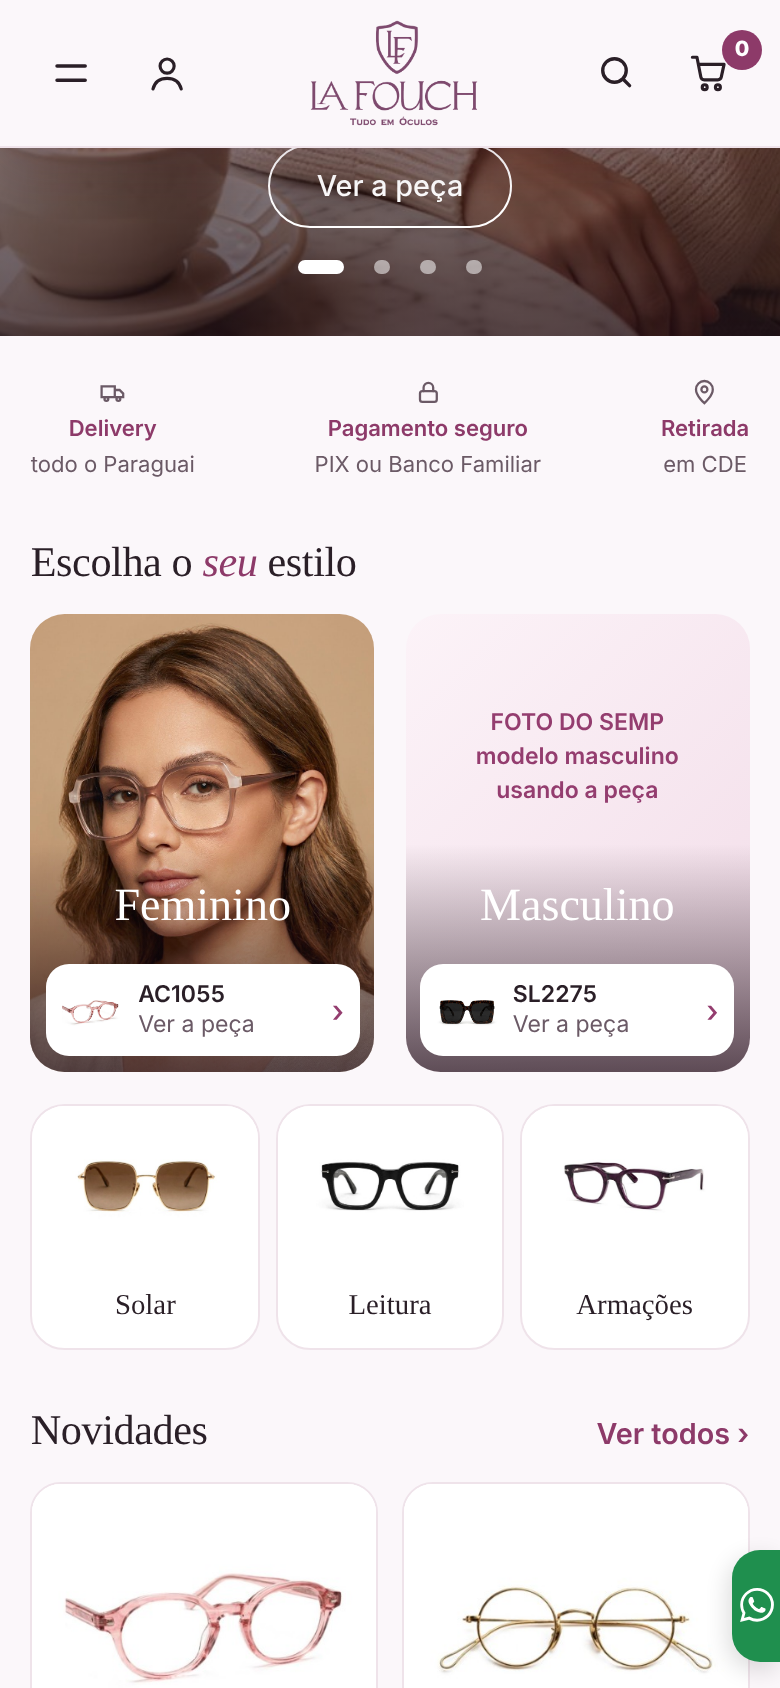
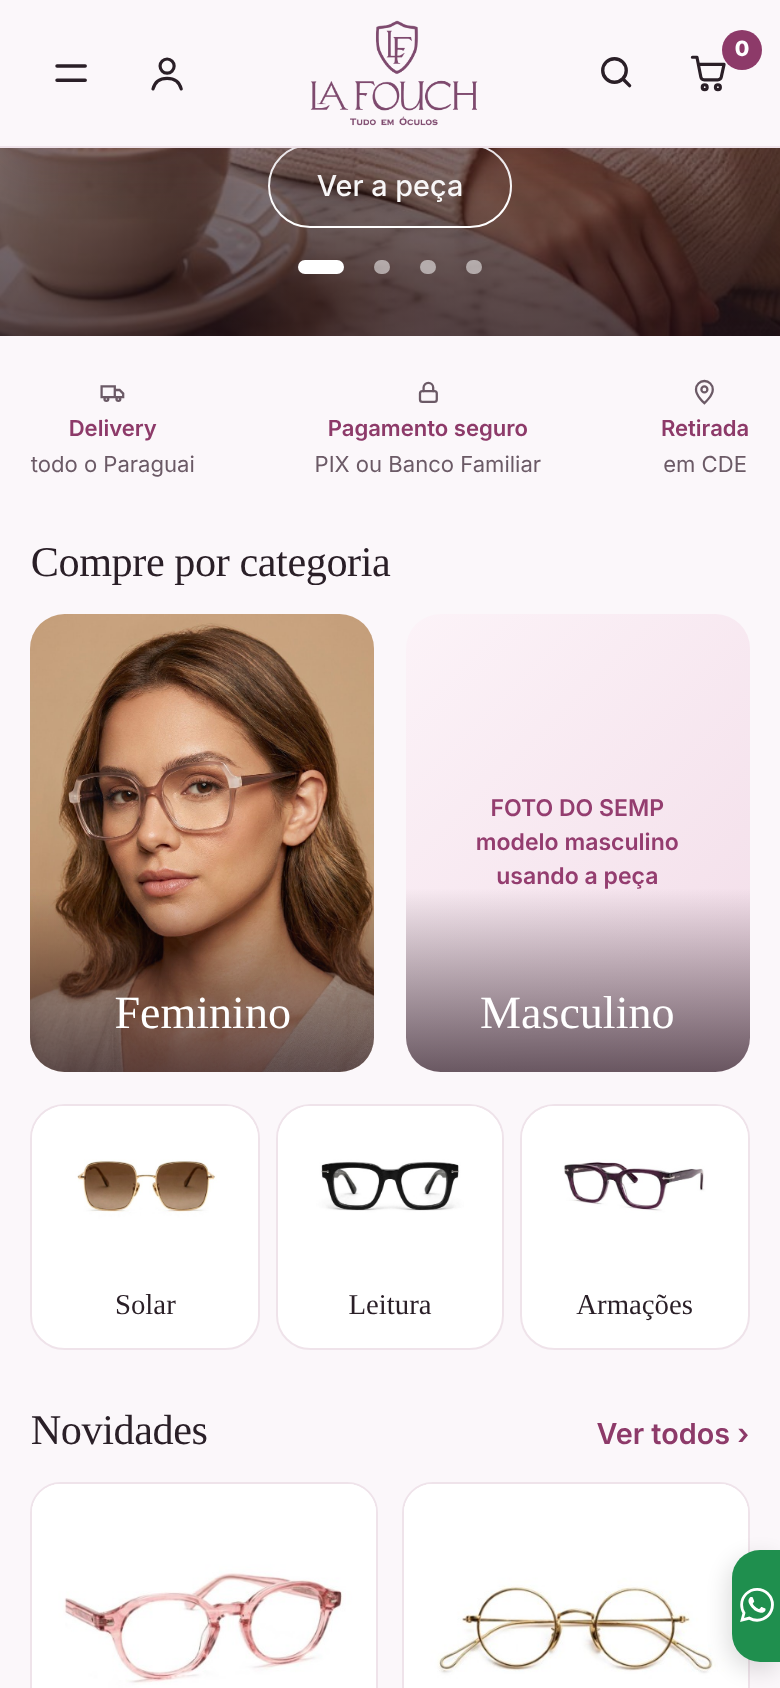
IDEIAS 17: 2d recusada (etiqueta invadindo a foto) → obsoletos; volta a 2c; lição no ESTUDO §10
Claude-Session: https://claude.ai/code/session_01PcXkKhex4mkp1bqD2Nmug8

Changed region(s): [[0.5231, 0.4005, 0.9846, 0.6469], [0.0615, 0.5237, 0.4615, 0.6469], [0.0308, 0.3081, 0.4923, 0.3389]]

diff --git a/work/ideias/17-inicio-modelos/parte2.js b/work/ideias/17-inicio-modelos/parte2.js
@@ -37,34 +37,22 @@
   }
 
 
-  /* 2d (dono 26/11 15:00 "refaça a parte 2", aplicando o ESTUDO.md §9):
-     - título humano em Fraunces com a palavra em itálico colorida (como os títulos do site);
-     - Feminino | Masculino = campanha (item 7 da Made), e cada foto leva TAMBÉM à peça que a modelo usa (itens 9/10):
-       etiqueta branca dentro da foto (miniatura + código + preço) que abre a peça; o resto da foto abre a categoria;
-     - Solar · Leitura · Armações = vitrine (os cartões de hoje): alterna campanha ↔ peça. */
+  /* 2c (dono 26/11 14:51, ESTUDO.md §7–8): alterna tipo e tamanho de imagem.
+     1) Feminino | Masculino = CAMPANHA: a foto ocupa o cartão inteiro (3:4, mesmo arredondado do .hcat), sem caixa, sem faixa, sem contagem;
+        nome em Fraunces branco sobre o mesmo véu da capa.
+     2) Solar · Leitura · Armações = VITRINE: os cartões de hoje, com a peça limpa (fotos que já existem). */
   const st = document.createElement('style'); st.textContent = `
   #home .lfx-gen{display:grid;grid-template-columns:repeat(2,minmax(0,1fr));gap:16px;margin-bottom:16px}
-  #home .lfx-gen > div{position:relative;aspect-ratio:3/4;border-radius:18px;overflow:hidden}
-  #home .lfx-gen a.cat{position:absolute;inset:0;color:#fff;text-decoration:none}
-  #home .lfx-gen img.bg{position:absolute;inset:0;width:100%;height:100%;object-fit:cover;object-position:50% 20%}
-  #home .lfx-gen .vb{position:absolute;left:0;right:0;bottom:0;height:50%;background:linear-gradient(#1f0d1700,#1f0d17b3)}
-  #home .lfx-gen b{position:absolute;left:8px;right:8px;bottom:72px;text-align:center;font:500 24px/1.2 Fraunces,Georgia,serif}
-  #home .lfx-gen .tag{position:absolute;left:8px;right:8px;bottom:8px;height:48px;display:flex;align-items:center;gap:8px;padding:0 8px;background:#fff;border-radius:12px;cursor:pointer}
-  #home .lfx-gen .tag img{width:32px;height:32px;object-fit:contain;flex:none}
-  #home .lfx-gen .tag span{flex:1;min-width:0;font:12px/1.3 Inter,system-ui;color:#6b5a66}
-  #home .lfx-gen .tag strong{display:block;font:600 12px/1.3 Inter,system-ui;color:#2a1f27}
-  #home .lfx-gen .tag i{font-style:normal;color:#943d6f;font:500 16px Inter,system-ui}
-  #home .lfx-gen .lfx-semp{position:absolute;inset:0;display:flex;align-items:flex-start;justify-content:center;padding-top:48px;text-align:center;background:linear-gradient(135deg,#fcf3f8,#f2dce8);color:#943d6f;font:600 12px/1.5 Inter,system-ui}`;
+  #home .lfx-gen a{position:relative;display:block;aspect-ratio:3/4;border-radius:18px;overflow:hidden;text-decoration:none;color:#fff}
+  #home .lfx-gen img{position:absolute;inset:0;width:100%;height:100%;object-fit:cover;object-position:50% 20%}
+  #home .lfx-gen .vb{position:absolute;left:0;right:0;bottom:0;height:40%;background:linear-gradient(#1f0d1700,#1f0d17a6)}
+  #home .lfx-gen b{position:absolute;left:16px;right:16px;bottom:16px;text-align:center;font:500 24px/1.2 Fraunces,Georgia,serif}
+  #home .lfx-gen .lfx-semp{position:absolute;inset:0;display:flex;align-items:center;justify-content:center;text-align:center;background:linear-gradient(135deg,#fcf3f8,#f2dce8);color:#943d6f;font:600 12px/1.5 Inter,system-ui;padding:16px}`;
   document.head.appendChild(st);
-  const g2 = document.querySelector('#home .hcat'), h2 = g2.previousElementSibling && g2.previousElementSibling.querySelector('h2');
-  if (h2) h2.innerHTML = 'Escolha o <em>seu</em> estilo';
-  const preco = c => { const el = [...document.querySelectorAll('#home *')].find(e => e.children.length === 0 && e.textContent.trim() === c);
-    const card = el && el.closest('a,article,.card,[data-open]'); const m = card && card.innerText.match(/R\$\s?[\d.,]+/); return m ? m[0] : ''; };
-  const foto = c => (window.C || []).length ? '' : '';
-  const tag = (c, src) => `<div class=tag data-open="${c}"><img src="${src}" alt=""><span><strong>${c}</strong>${preco(c) || 'Ver a peça'}</span><i>›</i></div>`;
+  const g2 = document.querySelector('#home .hcat');
   const gen = document.createElement('div'); gen.className = 'lfx-gen';
-  gen.innerHTML = `<div><a class=cat href="#vitrine" data-mf="gen:f"><img class=bg src="${ESTU}" alt=""><div class=vb></div><b>Feminino</b></a>${tag('AC1055', '/media/i/1e59e39c9c89.jpg')}</div>`
-    + `<div><a class=cat href="#vitrine" data-mf="gen:m"><div class=lfx-semp>FOTO DO SEMP<br>modelo masculino<br>usando a peça</div><div class=vb></div><b>Masculino</b></a>${tag('SL2275', '/media/i/484683019e1e.jpg')}</div>`;
+  gen.innerHTML = `<a href="#vitrine" data-mf="gen:f"><img src="${ESTU}" alt=""><div class=vb></div><b>Feminino</b></a>`
+    + `<a href="#vitrine" data-mf="gen:m"><div class=lfx-semp>FOTO DO SEMP<br>modelo masculino<br>usando a peça</div><div class=vb></div><b>Masculino</b></a>`;
   g2.before(gen);
 
 return 'ok'})()

diff --git a/work/obsoletos/ideias-17-parte2d-etiqueta/parte2d.py b/work/obsoletos/ideias-17-parte2d-etiqueta/parte2d.py
@@ -1,0 +1,91 @@
+"""IDEIAS 17 · parte 2 de 5 (dono 26/11 13:50): selos + "Compre por categoria".
+Base: a tela REAL pelo kit (work/kit/kit.py, regra 11) + parte 1 aprovada como direção (capa de tela inteira).
+Parte 2: os selos ficam como estão (já são da família); os cartões de categoria ficam o MESMO componente (cartão branco,
+mesmo arredondado, borda, rótulo e "N modelos" de hoje) — só a imagem muda: em vez da peça solta, a modelo usando a
+peça, mais alta (3:4), ocupando o cartão. Solar: lugar marcado para a foto do Semp (não há foto de modelo de sol ainda).
+Medidas: nada novo — margens, espaço entre cartões e letras são as do site; só a proporção da imagem muda.
+Gera parte2.js e roda o kit (Hoje e Proposta, com o olho.js/ecom.js), depois a prancha do kit."""
+import os, subprocess, sys
+AQ = os.path.dirname(os.path.abspath(__file__)); R = os.path.abspath(os.path.join(AQ, '../../..')); sys.path.insert(0, AQ)
+from fotos import CAFE, ESTU
+CAPA = r"""
+  const d = document.getElementById('hdst'); const cod = d.querySelector('[data-open]').dataset.open;
+  const topH = document.querySelector('.top').getBoundingClientRect().height;
+  const st0 = document.createElement('style'); st0.textContent = `
+  .lfx-capa{position:relative;overflow:hidden;cursor:pointer;color:#fff}
+  .lfx-capa .bg{position:absolute;inset:0;width:100%;height:100%;object-fit:cover;object-position:42% 20%}
+  .lfx-capa .vt{position:absolute;left:0;right:0;top:0;height:36%;background:linear-gradient(#1f0d1788,#1f0d1700)}
+  .lfx-capa .vb{position:absolute;left:0;right:0;bottom:0;height:40%;background:linear-gradient(#1f0d1700,#1f0d17a6)}
+  .lfx-capa .cima{position:absolute;left:16px;right:16px;top:32px;text-align:center}
+  .lfx-capa .rot{font:600 12px Inter,system-ui;letter-spacing:.16em;text-transform:uppercase}
+  .lfx-capa h1{font:500 32px/1.15 Fraunces,Georgia,serif;margin:8px 0 0;color:#fff}
+  .lfx-capa h1 em{color:#f6e3ec!important}
+  .lfx-capa .baixo{position:absolute;left:16px;right:16px;bottom:32px;text-align:center}
+  .lfx-capa p{font:15px/1.5 Inter,system-ui;margin:0 0 16px}
+  .lfx-capa .bt{display:inline-block;padding:12px 24px;border:1px solid #fff;border-radius:999px;font:500 15px Inter,system-ui}
+  .lfx-capa .pts{display:flex;gap:16px;justify-content:center;margin-top:16px}.lfx-capa .pts i{width:8px;height:8px;border-radius:8px;background:#fff8}.lfx-capa .pts i.on{width:24px;background:#fff}`;
+  document.head.appendChild(st0);
+  const cap = document.createElement('section'); cap.id = 'lfxcapa'; cap.className = 'lfx-capa'; cap.dataset.open = cod;
+  cap.innerHTML = `<img class=bg src="${CAFE}"><div class=vt></div><div class=vb></div><div class=cima><div class=rot>Destaque da semana</div><h1>Armação LaFouch <em>quadrada</em></h1></div><div class=baixo><p>Acetato rosé com detalhe dourado na haste.</p><span class=bt>Ver a peça</span><div class=pts><i class=on></i><i></i><i></i><i></i></div></div>`;
+  /* jeito natural (regra 12b): a capa fica FORA da coluna com margens, como peça de tela inteira — sem margem negativa */
+  const topW = document.querySelector('.top').getBoundingClientRect().width;
+  let host = d; while (host.parentElement && host.parentElement.getBoundingClientRect().width < topW - 1) host = host.parentElement;
+  host.parentElement.insertBefore(cap, host); d.style.display = 'none';
+  const tb = document.querySelector('.top').getBoundingClientRect().bottom, r = cap.getBoundingClientRect();
+  const pp = getComputedStyle(cap.parentElement), pl = parseFloat(pp.paddingLeft), pr = parseFloat(pp.paddingRight);
+  cap.style.cssText = `height:${innerHeight - topH}px;margin:${tb - r.top - scrollY}px ${-pr}px 0 ${-pl}px`;  /* sangra só o recuo da coluna da página */
+"""
+
+LEI = r"""
+  /* o site real mostra 3 categorias na ordem Solar · Leitura · Armações (lf-site.js, CT); o kit veio só com 2 — completa igual ao site */
+  const g = document.querySelector('#home .hcat');
+  if (g && !g.querySelector('[data-mf="tipo:grau"]')) {
+    const arm = g.querySelector('[data-mf="tipo:armacao"]'), le = arm.cloneNode(true);
+    le.dataset.mf = 'tipo:grau'; le.querySelector('img').src = '/media/i/b0ce33cc336d.jpg';
+    le.querySelector('span:last-child').innerHTML = '<small>3 modelos</small>Leitura';
+    g.insertBefore(le, arm); g.style.gridTemplateColumns = 'repeat(3,minmax(0,1fr))';
+  }
+"""
+P2 = r"""
+  /* 2d (dono 26/11 15:00 "refaça a parte 2", aplicando o ESTUDO.md §9):
+     - título humano em Fraunces com a palavra em itálico colorida (como os títulos do site);
+     - Feminino | Masculino = campanha (item 7 da Made), e cada foto leva TAMBÉM à peça que a modelo usa (itens 9/10):
+       etiqueta branca dentro da foto (miniatura + código + preço) que abre a peça; o resto da foto abre a categoria;
+     - Solar · Leitura · Armações = vitrine (os cartões de hoje): alterna campanha ↔ peça. */
+  const st = document.createElement('style'); st.textContent = `
+  #home .lfx-gen{display:grid;grid-template-columns:repeat(2,minmax(0,1fr));gap:16px;margin-bottom:16px}
+  #home .lfx-gen > div{position:relative;aspect-ratio:3/4;border-radius:18px;overflow:hidden}
+  #home .lfx-gen a.cat{position:absolute;inset:0;color:#fff;text-decoration:none}
+  #home .lfx-gen img.bg{position:absolute;inset:0;width:100%;height:100%;object-fit:cover;object-position:50% 20%}
+  #home .lfx-gen .vb{position:absolute;left:0;right:0;bottom:0;height:50%;background:linear-gradient(#1f0d1700,#1f0d17b3)}
+  #home .lfx-gen b{position:absolute;left:8px;right:8px;bottom:72px;text-align:center;font:500 24px/1.2 Fraunces,Georgia,serif}
+  #home .lfx-gen .tag{position:absolute;left:8px;right:8px;bottom:8px;height:48px;display:flex;align-items:center;gap:8px;padding:0 8px;background:#fff;border-radius:12px;cursor:pointer}
+  #home .lfx-gen .tag img{width:32px;height:32px;object-fit:contain;flex:none}
+  #home .lfx-gen .tag span{flex:1;min-width:0;font:12px/1.3 Inter,system-ui;color:#6b5a66}
+  #home .lfx-gen .tag strong{display:block;font:600 12px/1.3 Inter,system-ui;color:#2a1f27}
+  #home .lfx-gen .tag i{font-style:normal;color:#943d6f;font:500 16px Inter,system-ui}
+  #home .lfx-gen .lfx-semp{position:absolute;inset:0;display:flex;align-items:flex-start;justify-content:center;padding-top:48px;text-align:center;background:linear-gradient(135deg,#fcf3f8,#f2dce8);color:#943d6f;font:600 12px/1.5 Inter,system-ui}`;
+  document.head.appendChild(st);
+  const g2 = document.querySelector('#home .hcat'), h2 = g2.previousElementSibling && g2.previousElementSibling.querySelector('h2');
+  if (h2) h2.innerHTML = 'Escolha o <em>seu</em> estilo';
+  const preco = c => { const el = [...document.querySelectorAll('#home *')].find(e => e.children.length === 0 && e.textContent.trim() === c);
+    const card = el && el.closest('a,article,.card,[data-open]'); const m = card && card.innerText.match(/R\$\s?[\d.,]+/); return m ? m[0] : ''; };
+  const foto = c => (window.C || []).length ? '' : '';
+  const tag = (c, src) => `<div class=tag data-open="${c}"><img src="${src}" alt=""><span><strong>${c}</strong>${preco(c) || 'Ver a peça'}</span><i>›</i></div>`;
+  const gen = document.createElement('div'); gen.className = 'lfx-gen';
+  gen.innerHTML = `<div><a class=cat href="#vitrine" data-mf="gen:f"><img class=bg src="${ESTU}" alt=""><div class=vb></div><b>Feminino</b></a>${tag('AC1055', '/media/i/1e59e39c9c89.jpg')}</div>`
+    + `<div><a class=cat href="#vitrine" data-mf="gen:m"><div class=lfx-semp>FOTO DO SEMP<br>modelo masculino<br>usando a peça</div><div class=vb></div><b>Masculino</b></a>${tag('SL2275', '/media/i/484683019e1e.jpg')}</div>`;
+  g2.before(gen);
+"""
+def js(partes): return "(()=>{const CAFE=%r, ESTU=%r;\n%s\nreturn 'ok'})()" % (CAFE, ESTU, '\n'.join(partes))
+open(os.path.join(AQ, 'parte1.js'), 'w').write(js([CAPA]))
+open(os.path.join(AQ, 'parte2.js'), 'w').write(js([CAPA, LEI, P2]))
+open(os.path.join(AQ, 'hoje3.js'), 'w').write(js([LEI]))
+kit = os.path.join(R, 'work/kit/kit.py'); o = lambda n: os.path.join(AQ, n)
+def roda(*a):
+    r = subprocess.run(['python3', kit] + list(a), capture_output=True, text=True, timeout=240); print('\n'.join(l for l in r.stdout.splitlines() if 'DESIGNER' in l) or '(designer sem avisos)'); print(r.stderr[-400:])
+print('== HOJE');      roda('site', 'home', o('p2-hoje.png'), o('hoje3.js'), '--alvo', '.htr')
+print('== PROPOSTA');  roda('site', 'home', o('p2-proposta.png'), o('parte2.js'), '--alvo', '.htr')
+print('== PROPOSTA (rolada)'); roda('site', 'home', o('p2-proposta-b.png'), o('parte2.js'), '--alvo', '.lfx-gen')
+roda('prancha', o('esboco-17-parte2-categorias.jpg'), 'Início · parte 2 de 5', 'selos + Compre por categoria',
+     o('p2-hoje.png') + ':Hoje:3 cartões com a peça solta', o('p2-proposta.png') + ':Proposta:título humano + campanha que leva à peça', o('p2-proposta-b.png') + ':Proposta (rolando):foto → categoria · etiqueta → a peça · vitrine')

diff --git a/work/ideias/17-inicio-modelos/parte2.py b/work/ideias/17-inicio-modelos/parte2.py
@@ -47,34 +47,22 @@ LEI = r"""
   }
 """
 P2 = r"""
-  /* 2d (dono 26/11 15:00 "refaça a parte 2", aplicando o ESTUDO.md §9):
-     - título humano em Fraunces com a palavra em itálico colorida (como os títulos do site);
-     - Feminino | Masculino = campanha (item 7 da Made), e cada foto leva TAMBÉM à peça que a modelo usa (itens 9/10):
-       etiqueta branca dentro da foto (miniatura + código + preço) que abre a peça; o resto da foto abre a categoria;
-     - Solar · Leitura · Armações = vitrine (os cartões de hoje): alterna campanha ↔ peça. */
+  /* 2c (dono 26/11 14:51, ESTUDO.md §7–8): alterna tipo e tamanho de imagem.
+     1) Feminino | Masculino = CAMPANHA: a foto ocupa o cartão inteiro (3:4, mesmo arredondado do .hcat), sem caixa, sem faixa, sem contagem;
+        nome em Fraunces branco sobre o mesmo véu da capa.
+     2) Solar · Leitura · Armações = VITRINE: os cartões de hoje, com a peça limpa (fotos que já existem). */
   const st = document.createElement('style'); st.textContent = `
   #home .lfx-gen{display:grid;grid-template-columns:repeat(2,minmax(0,1fr));gap:16px;margin-bottom:16px}
-  #home .lfx-gen > div{position:relative;aspect-ratio:3/4;border-radius:18px;overflow:hidden}
-  #home .lfx-gen a.cat{position:absolute;inset:0;color:#fff;text-decoration:none}
-  #home .lfx-gen img.bg{position:absolute;inset:0;width:100%;height:100%;object-fit:cover;object-position:50% 20%}
-  #home .lfx-gen .vb{position:absolute;left:0;right:0;bottom:0;height:50%;background:linear-gradient(#1f0d1700,#1f0d17b3)}
-  #home .lfx-gen b{position:absolute;left:8px;right:8px;bottom:72px;text-align:center;font:500 24px/1.2 Fraunces,Georgia,serif}
-  #home .lfx-gen .tag{position:absolute;left:8px;right:8px;bottom:8px;height:48px;display:flex;align-items:center;gap:8px;padding:0 8px;background:#fff;border-radius:12px;cursor:pointer}
-  #home .lfx-gen .tag img{width:32px;height:32px;object-fit:contain;flex:none}
-  #home .lfx-gen .tag span{flex:1;min-width:0;font:12px/1.3 Inter,system-ui;color:#6b5a66}
-  #home .lfx-gen .tag strong{display:block;font:600 12px/1.3 Inter,system-ui;color:#2a1f27}
-  #home .lfx-gen .tag i{font-style:normal;color:#943d6f;font:500 16px Inter,system-ui}
-  #home .lfx-gen .lfx-semp{position:absolute;inset:0;display:flex;align-items:flex-start;justify-content:center;padding-top:48px;text-align:center;background:linear-gradient(135deg,#fcf3f8,#f2dce8);color:#943d6f;font:600 12px/1.5 Inter,system-ui}`;
+  #home .lfx-gen a{position:relative;display:block;aspect-ratio:3/4;border-radius:18px;overflow:hidden;text-decoration:none;color:#fff}
+  #home .lfx-gen img{position:absolute;inset:0;width:100%;height:100%;object-fit:cover;object-position:50% 20%}
+  #home .lfx-gen .vb{position:absolute;left:0;right:0;bottom:0;height:40%;background:linear-gradient(#1f0d1700,#1f0d17a6)}
+  #home .lfx-gen b{position:absolute;left:16px;right:16px;bottom:16px;text-align:center;font:500 24px/1.2 Fraunces,Georgia,serif}
+  #home .lfx-gen .lfx-semp{position:absolute;inset:0;display:flex;align-items:center;justify-content:center;text-align:center;background:linear-gradient(135deg,#fcf3f8,#f2dce8);color:#943d6f;font:600 12px/1.5 Inter,system-ui;padding:16px}`;
   document.head.appendChild(st);
-  const g2 = document.querySelector('#home .hcat'), h2 = g2.previousElementSibling && g2.previousElementSibling.querySelector('h2');
-  if (h2) h2.innerHTML = 'Escolha o <em>seu</em> estilo';
-  const preco = c => { const el = [...document.querySelectorAll('#home *')].find(e => e.children.length === 0 && e.textContent.trim() === c);
-    const card = el && el.closest('a,article,.card,[data-open]'); const m = card && card.innerText.match(/R\$\s?[\d.,]+/); return m ? m[0] : ''; };
-  const foto = c => (window.C || []).length ? '' : '';
-  const tag = (c, src) => `<div class=tag data-open="${c}"><img src="${src}" alt=""><span><strong>${c}</strong>${preco(c) || 'Ver a peça'}</span><i>›</i></div>`;
+  const g2 = document.querySelector('#home .hcat');
   const gen = document.createElement('div'); gen.className = 'lfx-gen';
-  gen.innerHTML = `<div><a class=cat href="#vitrine" data-mf="gen:f"><img class=bg src="${ESTU}" alt=""><div class=vb></div><b>Feminino</b></a>${tag('AC1055', '/media/i/1e59e39c9c89.jpg')}</div>`
-    + `<div><a class=cat href="#vitrine" data-mf="gen:m"><div class=lfx-semp>FOTO DO SEMP<br>modelo masculino<br>usando a peça</div><div class=vb></div><b>Masculino</b></a>${tag('SL2275', '/media/i/484683019e1e.jpg')}</div>`;
+  gen.innerHTML = `<a href="#vitrine" data-mf="gen:f"><img src="${ESTU}" alt=""><div class=vb></div><b>Feminino</b></a>`
+    + `<a href="#vitrine" data-mf="gen:m"><div class=lfx-semp>FOTO DO SEMP<br>modelo masculino<br>usando a peça</div><div class=vb></div><b>Masculino</b></a>`;
   g2.before(gen);
 """
 def js(partes): return "(()=>{const CAFE=%r, ESTU=%r;\n%s\nreturn 'ok'})()" % (CAFE, ESTU, '\n'.join(partes))
@@ -88,4 +76,4 @@ print('== HOJE');      roda('site', 'home', o('p2-hoje.png'), o('hoje3.js'), '--
 print('== PROPOSTA');  roda('site', 'home', o('p2-proposta.png'), o('parte2.js'), '--alvo', '.htr')
 print('== PROPOSTA (rolada)'); roda('site', 'home', o('p2-proposta-b.png'), o('parte2.js'), '--alvo', '.lfx-gen')
 roda('prancha', o('esboco-17-parte2-categorias.jpg'), 'Início · parte 2 de 5', 'selos + Compre por categoria',
-     o('p2-hoje.png') + ':Hoje:3 cartões com a peça solta', o('p2-proposta.png') + ':Proposta:título humano + campanha que leva à peça', o('p2-proposta-b.png') + ':Proposta (rolando):foto → categoria · etiqueta → a peça · vitrine')
+     o('p2-hoje.png') + ':Hoje:3 cartões com a peça solta', o('p2-proposta.png') + ':Proposta:campanha (Feminino | Masculino)', o('p2-proposta-b.png') + ':Proposta (rolando):depois a vitrine (a peça limpa)')

diff --git a/work/ideias/17-inicio-modelos/COMO-FAZER.md b/work/ideias/17-inicio-modelos/COMO-FAZER.md
@@ -48,7 +48,7 @@ Arquivo: esboco-17-parte2-categorias.jpg (kit real, Hoje × Proposta). Gerador: 
 - Solar · Leitura · Armações = os cartões de hoje (a peça limpa), logo abaixo, 16 de espaço. Alterna tipo e tamanho de imagem.
 - Masculino: espera a foto do Semp.
 
-### 2d (dono 26/11 15:00 "refaça a parte 2", aplicando ESTUDO.md §9) — substitui a 2c
+### 2d — RECUSADA (dono 26/11 15:03: a etiqueta da peça invadindo a foto é ainda menos luxuosa) → work/obsoletos/ideias-17-parte2d-etiqueta/; base atual volta a ser a 2c (não aprovada)
 - Título humano: "Escolha o *seu* estilo" (Fraunces, itálico colorido como os h2 do site) — texto a confirmar com o dono.
 - Feminino | Masculino (campanha): tocar na foto = categoria (gen:f/gen:m); etiqueta branca dentro da foto (8 das bordas, 48 de altura,
   miniatura 32 + código + preço/“Ver a peça” + ›) = abre a peça que a modelo usa (data-open). Nome Fraunces 24 acima da etiqueta.

diff --git a/work/ideias/16-padrao-luxo/ESTUDO.md b/work/ideias/16-padrao-luxo/ESTUDO.md
@@ -111,3 +111,8 @@ preço riscado como padrão, "SHOP NOW" em inglês, letra sem serifa nos título
 - P4: "Veja no rosto / Em movimento" = vídeos curtos em pé do Semp com a peça embaixo (item 10).
 - P5: vantagens (Delivery, Pagamento, Retirada) como foto + frase (item 12) no lugar dos selos? — decidir com o dono; fotos de clientes só reais (item 14); rodapé claro arredondado.
 - Títulos humanos em Fraunces com a palavra em itálico colorida (ex.: "Escolhas que *nunca* erram" — texto a decidir com o dono).
+
+## 10. Lição (dono 26/11 15:03, 2d recusada)
+- **Nada de peça de interface dentro da foto de campanha** (etiqueta, caixa branca, preço, botão). Sobre a foto, no máximo o nome curto em Fraunces sobre o véu.
+  A ligação foto → peça (Made itens 9/10) se faz FORA da foto: logo abaixo, ou na tela seguinte — nunca invadindo a imagem.
+- Antes de mandar, perguntar: "isto tira força da foto?" Se sim, não vai.
